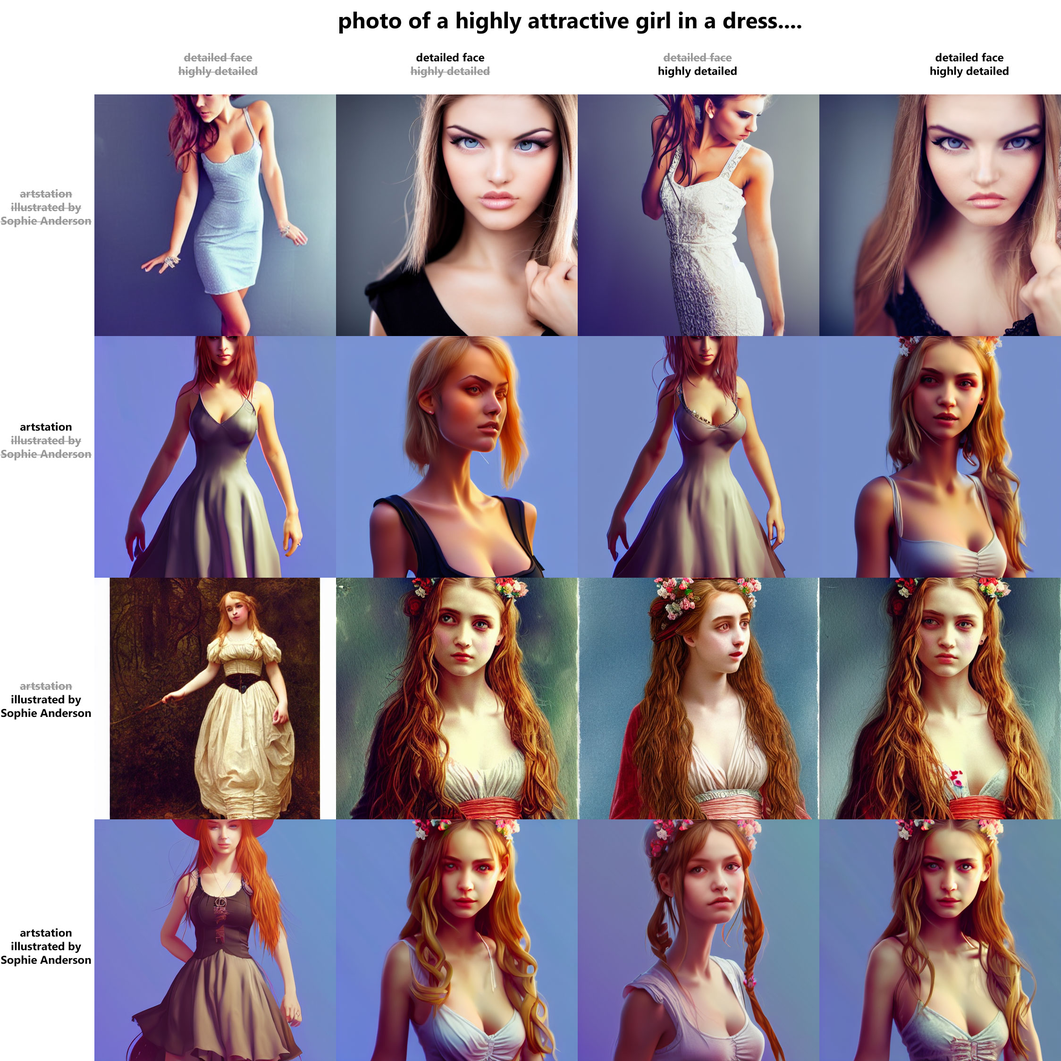
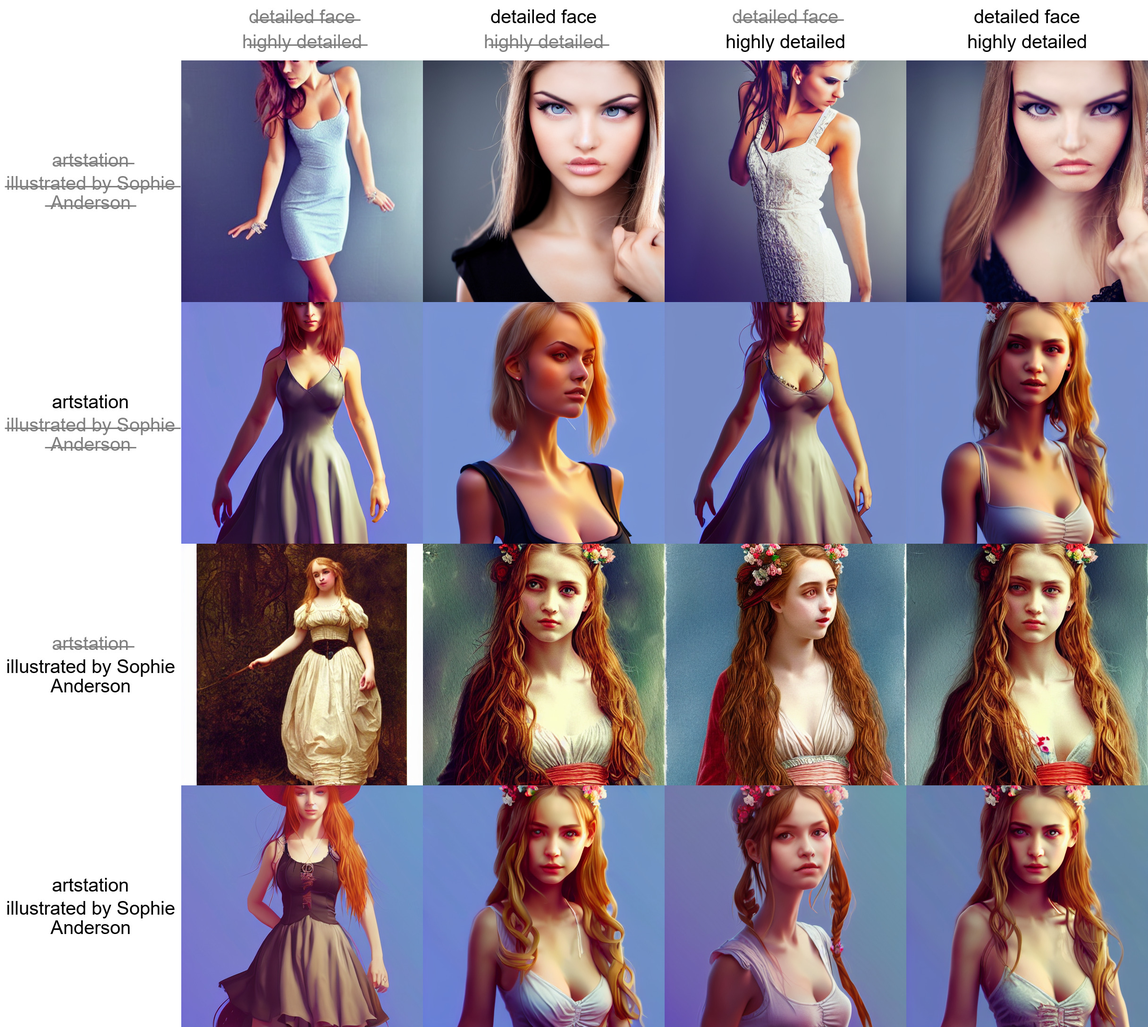
Prompt matrix now draws text like in demo.

diff --git a/webui.py b/webui.py
@@ -1,11 +1,10 @@
-import PIL
 import argparse, os, sys, glob
 import torch
 import torch.nn as nn
 import numpy as np
 import gradio as gr
 from omegaconf import OmegaConf
-from PIL import Image
+from PIL import Image, ImageFont, ImageDraw
 from itertools import islice
 from einops import rearrange, repeat
 from torch import autocast
@@ -74,23 +73,6 @@ def load_model_from_config(config, ckpt, verbose=False):
     model.cuda()
     model.eval()
     return model
-
-
-def load_img_pil(img_pil):
-    image = img_pil.convert("RGB")
-    w, h = image.size
-    print(f"loaded input image of size ({w}, {h})")
-    w, h = map(lambda x: x - x % 64, (w, h))  # resize to integer multiple of 64
-    image = image.resize((w, h), resample=PIL.Image.LANCZOS)
-    print(f"cropped image to size ({w}, {h})")
-    image = np.array(image).astype(np.float32) / 255.0
-    image = image[None].transpose(0, 3, 1, 2)
-    image = torch.from_numpy(image)
-    return 2. * image - 1.
-
-
-def load_img(path):
-    return load_img_pil(Image.open(path))
 
 
 class CFGDenoiser(nn.Module):
@@ -179,6 +161,71 @@ def image_grid(imgs, batch_size, round_down=False):
     return grid
 
 
+def draw_prompt_matrix(im, width, height, all_prompts):
+    def wrap(text, d, font, line_length):
+        lines = ['']
+        for word in text.split():
+            line = f'{lines[-1]} {word}'.strip()
+            if d.textlength(line, font=font) <= line_length:
+                lines[-1] = line
+            else:
+                lines.append(word)
+        return '\n'.join(lines)
+
+    def draw_texts(pos, x, y, texts, sizes):
+        for i, (text, size) in enumerate(zip(texts, sizes)):
+            active = pos & (1 << i) != 0
+
+            if not active:
+                text = '\u0336'.join(text) + '\u0336'
+
+            d.multiline_text((x, y + size[1] / 2), text, font=fnt, fill=color_active if active else color_inactive, anchor="mm", align="center")
+
+            y += size[1] + line_spacing
+
+    fontsize = (width + height) // 25
+    line_spacing = fontsize // 2
+    fnt = ImageFont.truetype("arial.ttf", fontsize)
+    color_active = (0, 0, 0)
+    color_inactive = (153, 153, 153)
+
+    pad_top = height // 4
+    pad_left = width * 3 // 4
+
+    cols = im.width // width
+    rows = im.height // height
+
+    prompts = all_prompts[1:]
+
+    result = Image.new("RGB", (im.width + pad_left, im.height + pad_top), "white")
+    result.paste(im, (pad_left, pad_top))
+
+    d = ImageDraw.Draw(result)
+
+    boundary = math.ceil(len(prompts) / 2)
+    prompts_horiz = [wrap(x, d, fnt, width) for x in prompts[:boundary]]
+    prompts_vert = [wrap(x, d, fnt, pad_left) for x in prompts[boundary:]]
+
+    sizes_hor = [(x[2] - x[0], x[3] - x[1]) for x in [d.multiline_textbbox((0, 0), x, font=fnt) for x in prompts_horiz]]
+    sizes_ver = [(x[2] - x[0], x[3] - x[1]) for x in [d.multiline_textbbox((0, 0), x, font=fnt) for x in prompts_vert]]
+    hor_text_height = sum([x[1] + line_spacing for x in sizes_hor]) - line_spacing
+    ver_text_height = sum([x[1] + line_spacing for x in sizes_ver]) - line_spacing
+
+    for col in range(cols):
+        x = pad_left + width * col + width / 2
+        y = pad_top / 2 - hor_text_height / 2
+
+        draw_texts(col, x, y, prompts_horiz, sizes_hor)
+
+    for row in range(rows):
+        x = pad_left / 2
+        y = pad_top + height * row + height / 2 - ver_text_height / 2
+
+        draw_texts(row, x, y, prompts_vert, sizes_ver)
+
+    return result
+
+
 def dream(prompt: str, ddim_steps: int, sampler_name: str, use_GFPGAN: bool, prompt_matrix: bool, ddim_eta: float, n_iter: int, n_samples: int, cfg_scale: float, seed: int, height: int, width: int):
     torch.cuda.empty_cache()
 
@@ -212,30 +259,23 @@ def dream(prompt: str, ddim_steps: int, sampler_name: str, use_GFPGAN: bool, pro
     grid_count = len(os.listdir(outpath)) - 1
 
     prompt_matrix_prompts = []
-    comment = ""
+    prompt_matrix_parts = []
     if prompt_matrix:
         keep_same_seed = True
-        comment = "Image prompts:\n\n"
 
-        items = prompt.split("|")
-        combination_count = 2 ** (len(items)-1)
+        prompt_matrix_parts = prompt.split("|")
+        combination_count = 2 ** (len(prompt_matrix_parts)-1)
         for combination_num in range(combination_count):
-            current = items[0]
-            label = 'A'
+            current = prompt_matrix_parts[0]
 
-            for n, text in enumerate(items[1:]):
+            for n, text in enumerate(prompt_matrix_parts[1:]):
                 if combination_num & (2**n) > 0:
                     current += ("" if text.strip().startswith(",") else ", ") + text
-                    label += chr(ord('B') + n)
-
-            comment += " - " + label + "\n"
 
             prompt_matrix_prompts.append(current)
         n_iter = math.ceil(len(prompt_matrix_prompts) / batch_size)
 
-        comment += "\nwhere:\n"
-        for n, text in enumerate(items):
-            comment += "  " + chr(ord('A') + n) + " = " + items[n] + "\n"
+        print(f"Prompt matrix will create {len(prompt_matrix_prompts)} images using a total of {n_iter} batches.")
 
     precision_scope = autocast if opt.precision == "autocast" else nullcontext
     output_images = []
@@ -262,7 +302,7 @@ def dream(prompt: str, ddim_steps: int, sampler_name: str, use_GFPGAN: bool, pro
             x_samples_ddim = model.decode_first_stage(samples_ddim)
             x_samples_ddim = torch.clamp((x_samples_ddim + 1.0) / 2.0, min=0.0, max=1.0)
 
-            if not opt.skip_save or not opt.skip_grid:
+            if prompt_matrix or not opt.skip_save or not opt.skip_grid:
                 for i, x_sample in enumerate(x_samples_ddim):
                     x_sample = 255. * rearrange(x_sample.cpu().numpy(), 'c h w -> h w c')
                     x_sample = x_sample.astype(np.uint8)
@@ -279,23 +319,22 @@ def dream(prompt: str, ddim_steps: int, sampler_name: str, use_GFPGAN: bool, pro
                     output_images.append(image)
                     base_count += 1
 
-        if not opt.skip_grid:
-            # additionally, save as grid
+        if prompt_matrix or not opt.skip_grid:
             grid = image_grid(output_images, batch_size, round_down=prompt_matrix)
+
+            if prompt_matrix:
+                grid = draw_prompt_matrix(grid, width, height, prompt_matrix_parts)
+                output_images.insert(0, grid)
+
             grid.save(os.path.join(outpath, f'grid-{grid_count:04}.png'))
             grid_count += 1
 
-
-    if sampler is not None:
-        del sampler
+    del sampler
 
     info = f"""
 {prompt}
 Steps: {ddim_steps}, Sampler: {sampler_name}, CFG scale: {cfg_scale}, Seed: {seed}{', GFPGAN' if use_GFPGAN and GFPGAN is not None else ''}
     """.strip()
-
-    if len(comment) > 0:
-        info += "\n\n" + comment
 
     return output_images, seed, info
 
@@ -350,7 +389,7 @@ dream_interface = gr.Interface(
         gr.Checkbox(label='Create prompt matrix (separate multiple prompts using |, and get all combinations of them)', value=False),
         gr.Slider(minimum=0.0, maximum=1.0, step=0.01, label="DDIM ETA", value=0.0, visible=False),
         gr.Slider(minimum=1, maximum=16, step=1, label='Batch count (how many batches of images to generate)', value=1),
-        gr.Slider(minimum=1, maximum=4, step=1, label='Batch size (how many images are in a batch; memory-hungry)', value=1),
+        gr.Slider(minimum=1, maximum=8, step=1, label='Batch size (how many images are in a batch; memory-hungry)', value=1),
         gr.Slider(minimum=1.0, maximum=15.0, step=0.5, label='Classifier Free Guidance Scale (how strongly the image should follow the prompt)', value=7.0),
         gr.Number(label='Seed', value=-1),
         gr.Slider(minimum=64, maximum=2048, step=64, label="Height", value=512),
@@ -389,7 +428,7 @@ def translation(prompt: str, init_img, ddim_steps: int, use_GFPGAN: bool, ddim_e
     grid_count = len(os.listdir(outpath)) - 1
 
     image = init_img.convert("RGB")
-    image = image.resize((width, height), resample=PIL.Image.Resampling.LANCZOS)
+    image = image.resize((width, height), resample=Image.Resampling.LANCZOS)
     image = np.array(image).astype(np.float32) / 255.0
     image = image[None].transpose(0, 3, 1, 2)
     image = torch.from_numpy(image)
@@ -466,7 +505,7 @@ img2img_interface = gr.Interface(
         gr.Checkbox(label='Fix faces using GFPGAN', value=False, visible=GFPGAN is not None),
         gr.Slider(minimum=0.0, maximum=1.0, step=0.01, label="DDIM ETA", value=0.0, visible=False),
         gr.Slider(minimum=1, maximum=16, step=1, label='Batch count (how many batches of images to generate)', value=1),
-        gr.Slider(minimum=1, maximum=4, step=1, label='Batch size (how many images are in a batch; memory-hungry)', value=1),
+        gr.Slider(minimum=1, maximum=8, step=1, label='Batch size (how many images are in a batch; memory-hungry)', value=1),
         gr.Slider(minimum=1.0, maximum=15.0, step=0.5, label='Classifier Free Guidance Scale (how strongly the image should follow the prompt)', value=7.0),
         gr.Slider(minimum=0.0, maximum=1.0, step=0.01, label='Denoising Strength', value=0.75),
         gr.Number(label='Seed', value=-1),
@@ -494,7 +533,7 @@ def run_GFPGAN(image, strength):
     res = Image.fromarray(restored_img)
 
     if strength < 1.0:
-        res = PIL.Image.blend(image, res, strength)
+        res = Image.blend(image, res, strength)
 
     return res
 

diff --git a/README.md b/README.md
@@ -75,17 +75,17 @@ Pick out of three sampling methods for txt2img: DDIM, PLMS, k-diffusion:
 
 ### Prompt matrix
 Separate multiple prompts using the `|` character, and the system will produce an image for every combination of them.
-For example, if you use `a house in a field of grass|at dawn|illustration` prompt, there are four combinations possible (first part of prompt is always kept):
+For example, if you use `a busy city street in a modern city|illustration|cinematic lighting` prompt, there are four combinations possible (first part of prompt is always kept):
 
-- `a house in a field of grass`
-- `a house in a field of grass, at dawn`
-- `a house in a field of grass, illustration`
-- `a house in a field of grass, at dawn, illustration`
+- `a busy city street in a modern city`
+- `a busy city street in a modern city, illustration`
+- `a busy city street in a modern city, cinematic lighting`
+- `a busy city street in a modern city, illustration, cinematic lighting`
 
 Four images will be produced, in this order, all with same seed and each with corresponding prompt:
 ![](images/prompt-matrix.png)
 
-Another example, this time with 5 prompts and 16 variations, (text added manually):
+Another example, this time with 5 prompts and 16 variations:
 ![](images/prompt_matrix.jpg)
 
 ### Flagging
